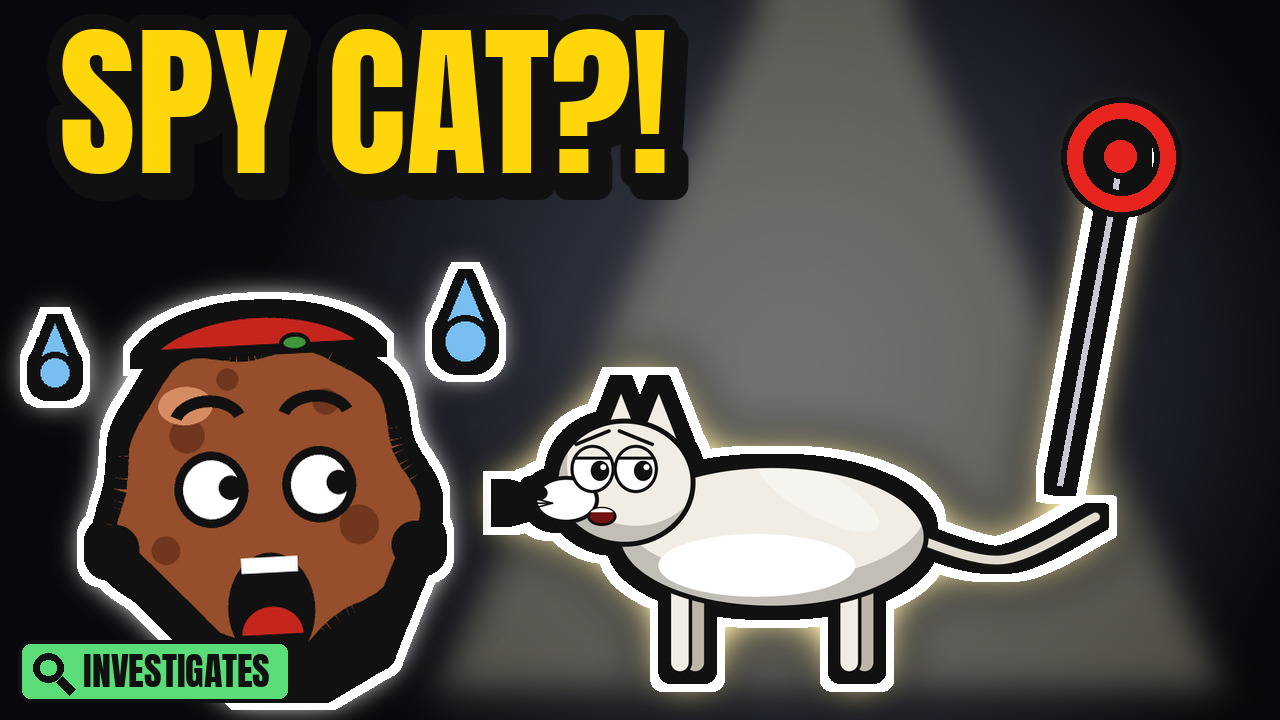
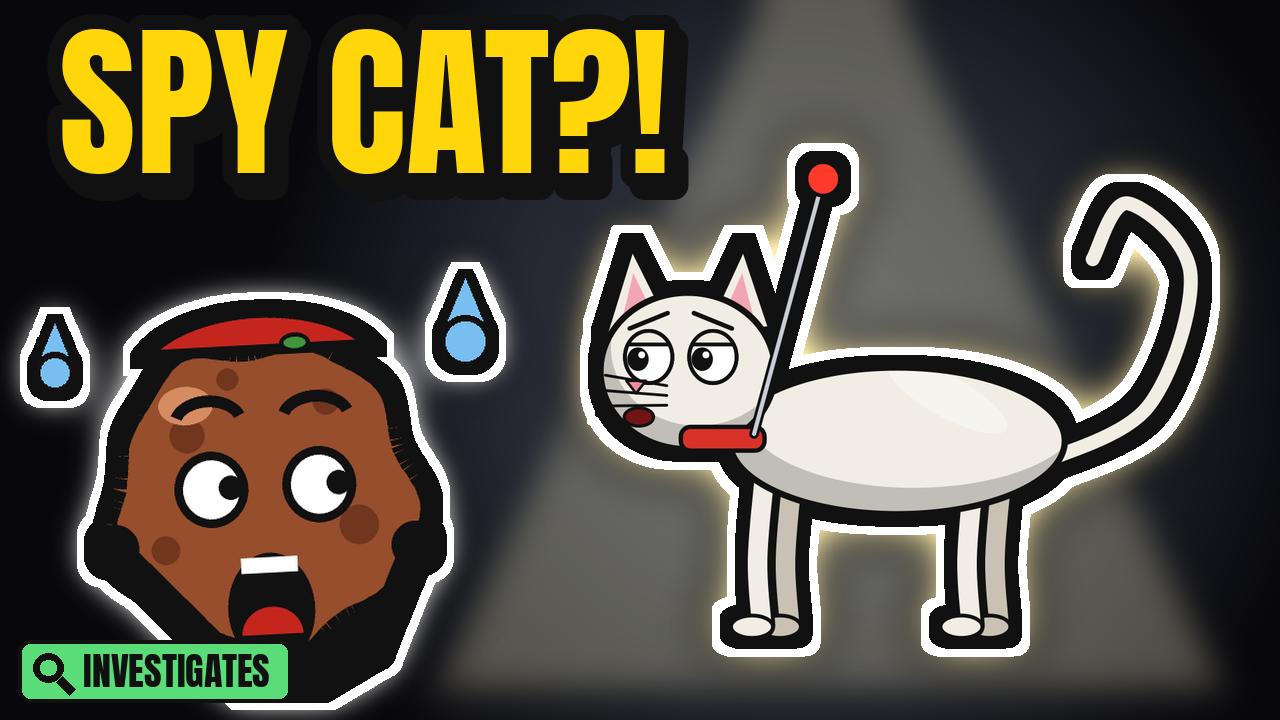
Thumbnails v3: real ostrich and cat drawings for the redone long-form thumbnails
Claude-Session: https://claude.ai/code/session_01B6g5mJGtBmh6CLoEx3Vyyw

Changed region(s): [[0.375, 0.1222, 0.9688, 0.9778]]

diff --git a/skills/oh-meatball/tools/thumb_v3.py b/skills/oh-meatball/tools/thumb_v3.py
@@ -600,6 +600,70 @@ OSTRICH = {"plan": "bird", "color": "#2b2522", "belly": "#3a322e", "dark": "#151
            "leg_len": 330, "foot_color": "#e7a6a0", "beak_color": "#e7a6a0", "mood": "calm"}
 
 
+def ostrich(c, t, p):
+    """Ostrich, side view facing right, feet at y = 0: fluffy black body, white plumes, long thick neck, small head
+    with big lashed eyes and a flat beak, long bare pink legs with two toes."""
+    K = B
+    pink, pink_dk = K.hexc("#e7a6a0"), K.hexc("#c9807a")
+    for hx, far in ((-30, True), (60, False)):   # legs: thigh, backward knee, shin, two toes
+        col = pink_dk if far else pink
+        K.limb(c, [(hx, -470), (hx + 40, -300), (hx - 10, -40)], 30 if not far else 26, col, K.OUT * 0.7)
+        for dx in (60, 110):
+            K.limb(c, [(hx - 10, -30), (hx - 10 + dx, -6)], 22, col, K.OUT * 0.6)
+    K.shape(c, lambda q: K.p_smooth(q, [(-150, -620), (-330, -760), (-290, -600), (-380, -650), (-300, -520)]),
+            (1, 1, 1), K.OUT, (0.05, 0.1))   # white tail plumes
+    K.shape(c, lambda q: K.p_blob(q, 0, -580, 250, 170, 0.07, seed=5), K.hexc("#221c1a"), K.OUT, (0.1, 0.15),
+            hi=(0.3, 0.2, 0.15))
+    for k in range(9):   # fluff
+        a = math.pi * (1.05 + 0.9 * k / 8)
+        x, y = 250 * math.cos(a), -580 + 170 * math.sin(a)
+        K.stroke(c, [(x, y), (x * 1.12, y - 18)], 8, color=K.hexc("#3a302c"))
+    K.shape(c, lambda q: K.p_smooth(q, [(-120, -600), (40, -660), (160, -560), (40, -520)]), (1, 1, 1), K.OUT * 0.8,
+            (0.05, 0.15))   # white wing plume
+    K.limb(c, [(170, -640), (250, -820), (230, -1000), (270, -1090)], 56, K.hexc("#d7b2a8"), K.OUT)   # neck
+    K.shape(c, lambda q: K.p_poly(q, [(310, -1110), (420, -1085), (312, -1060)]), K.hexc("#e9b28a"), K.OUT * 0.7,
+            None)   # flat beak
+    K.shape(c, lambda q: K.p_ellipse(q, 280, -1100, 64, 54), K.hexc("#d7b2a8"), K.OUT, (0.08, 0.15))
+    K.eyes(c, 282, -1112, 30, 26, p.get("look", (1, 0)), p.get("mood", "smug"), 0, K.OUT * 0.6,
+           lid=K.hexc("#d7b2a8"))
+    for ex in (256, 308):   # big lashes
+        for k in range(3):
+            a = -math.pi / 2 + (k - 1) * 0.45
+            K.stroke(c, [(ex + 22 * math.cos(a), -1150 + 22 * math.sin(a)),
+                         (ex + 46 * math.cos(a), -1150 + 46 * math.sin(a))], 7)
+    K.mouth(c, 345, -1082, 40, p.get("mouth", "grin"), p.get("talk", 0.0), K.OUT * 0.5)
+
+
+def cat(c, t, p):
+    """House cat, side view facing right, feet at y = 0: slim body, rounded head, triangle ears, whiskers, long curled
+    tail, slim legs with paws; a red collar with a CIA antenna. """
+    K = B
+    fur, fur_dk = K.hexc("#f1ede4"), K.hexc("#c9c2b4")
+    K.stroke(c, [(-210, -250), (-360, -330), (-420, -520), (-330, -620), (-280, -540)], 34, smooth=True)
+    K.stroke(c, [(-210, -250), (-360, -330), (-420, -520), (-330, -620), (-280, -540)], 20, smooth=True, color=fur)
+    for hx, far in ((-150, True), (150, True), (-110, False), (190, False)):
+        col = fur_dk if far else fur
+        K.limb(c, [(hx, -230), (hx + 10, -110), (hx + 4, -16)], 28, col, K.OUT * 0.6)
+        K.shape(c, lambda q, hx=hx: K.p_ellipse(q, hx + 18, -14, 30, 16), col, K.OUT * 0.6, None)
+    K.shape(c, lambda q: K.p_ellipse(q, 0, -280, 240, 105), fur, K.OUT, (0.05, 0.18), hi=(0.35, 0.2, 0.2))
+    for s_ in (-1, 1):   # ears
+        ex = 300 + s_ * 70
+        K.shape(c, lambda q, ex=ex, s_=s_: K.p_poly(q, [(ex - 50, -440), (ex + s_ * 10, -560), (ex + 50, -430)]),
+                fur, K.OUT, None)
+        K.flat(c, lambda q, ex=ex, s_=s_: K.p_poly(q, [(ex - 26, -450), (ex + s_ * 8, -520), (ex + 26, -445)]),
+               K.hexc("#f2a6b4"))
+    K.shape(c, lambda q: K.p_ellipse(q, 300, -380, 125, 112), fur, K.OUT, (0.06, 0.15))
+    K.shape(c, lambda q: K.p_rrect(q, 190, -300, 120, 34, 14), K.hexc("#d8322a"), K.OUT * 0.7, None)   # collar
+    K.stroke(c, [(205, -290), (110, -640)], 14)   # antenna on the collar, raked back behind the head
+    K.stroke(c, [(205, -290), (110, -640)], 6, color=K.hexc("#c8ccd4"))
+    K.shape(c, lambda q: K.p_ellipse(q, 106, -655, 24, 24), K.hexc("#ff3a2a"), K.OUT * 0.6, None)
+    K.eyes(c, 310, -400, 34, 46, p.get("look", (1, 0)), p.get("mood", "angry"), 0, K.OUT * 0.6, lid=fur)
+    K.shape(c, lambda q: K.p_poly(q, [(360, -366), (388, -366), (374, -348)]), K.hexc("#f28aa0"), K.OUT * 0.4, None)
+    K.mouth(c, 370, -322, 42, p.get("mouth", "grin"), p.get("talk", 0.0), K.OUT * 0.5)
+    for k in (-1, 0, 1):   # whiskers
+        K.stroke(c, [(330, -345 + k * 14), (418, -352 + k * 22)], 4)
+
+
 def l_ostrich():
     """gFhrONKK0rI Everything You Know About Animals Is WRONG -> FAKE!: a smug ostrich standing tall beside the sand hole it never
     sticks its head in (red X)."""
@@ -608,9 +672,9 @@ def l_ostrich():
     d.rectangle([0, 560, W, H], fill=(226, 180, 104))
     d.ellipse([560, 590, 820, 660], fill=(120, 80, 40), outline=INK, width=8)   # the sand hole it never uses
     d.ellipse([600, 600, 780, 640], fill=(60, 36, 18))
-    bird = actor(sp(OSTRICH), {"look": (-1, 0.3), "mood": "smug", "mouth": "grin", "talk": 0.5}, 1.0, 2000, 1500,
-                 900, 1250)
-    bird = pop(fit(bird.transpose(Image.FLIP_LEFT_RIGHT), 560, 600), 9, 8, WHITE, 26, (255, 236, 170))
+    bird = actor(ostrich, {"look": (1, 0.3), "mood": "smug", "mouth": "grin", "talk": 0.5}, 1.0, 1600, 1500,
+                 800, 1350)
+    bird = pop(fit(bird.transpose(Image.FLIP_LEFT_RIGHT), 560, 620), 9, 8, WHITE, 26, (255, 236, 170))
     paste_c(cv, bird, 1000, 380)
     red_x(cv, 690, 590, 80)
     vignette(cv, 0.25)
@@ -731,19 +795,9 @@ def l_cat():
     g = Image.new("RGBA", cv.size, (0, 0, 0, 0))
     ImageDraw.Draw(g).polygon([(760, -20), (900, -20), (1240, 700), (420, 700)], fill=(255, 244, 200, 70))
     cv.alpha_composite(g.filter(ImageFilter.GaussianBlur(20)))
-    cat = actor(sp(CAT), {"look": (-0.8, 0.2), "talk": 0.6}, 1.05, 2000, 1100, 1000, 950)
-    cat = fit(cat.transpose(Image.FLIP_LEFT_RIGHT), 600, 380)
-    lay = Image.new("RGBA", (cat.width + 200, cat.height + 260), (0, 0, 0, 0))
-    lay.alpha_composite(cat, (0, 260))
-    e = ImageDraw.Draw(lay)
-    ax = cat.width - 40   # antenna rising off the tail end, with a red tip bulb
-    ay = 260 + int(cat.height * 0.35)
-    e.line([(ax, ay), (ax + 60, 40)], fill=INK, width=14)
-    e.line([(ax, ay), (ax + 60, 40)], fill=(200, 200, 210), width=6)
-    e.ellipse([ax + 38, 10, ax + 82, 54], fill=RED, outline=INK, width=6)
-    lay = pop(lay, 9, 8, WHITE, 24, (255, 236, 170))
-    paste_c(cv, lay, 900, 400)
-    ring(cv, 900 - lay.width / 2 + ax + 60 + 70, 400 - lay.height / 2 + 32 + 70, 60)
+    kitty = actor(cat, {"look": (1, 0.2), "talk": 0.6}, 1.0, 1400, 1000, 700, 900)
+    kitty = pop(fit(kitty.transpose(Image.FLIP_LEFT_RIGHT), 640, 480), 9, 8, WHITE, 24, (255, 236, 170))
+    paste_c(cv, kitty, 900, 400)
     mb_left(cv, 420, (18, -2))
     words(cv, "SPY CAT?!", 24, -6, 190, YEL, max_w=620)
     badge(cv, "INVESTIGATES", 18, 640, 62, **CASE_TAG)
